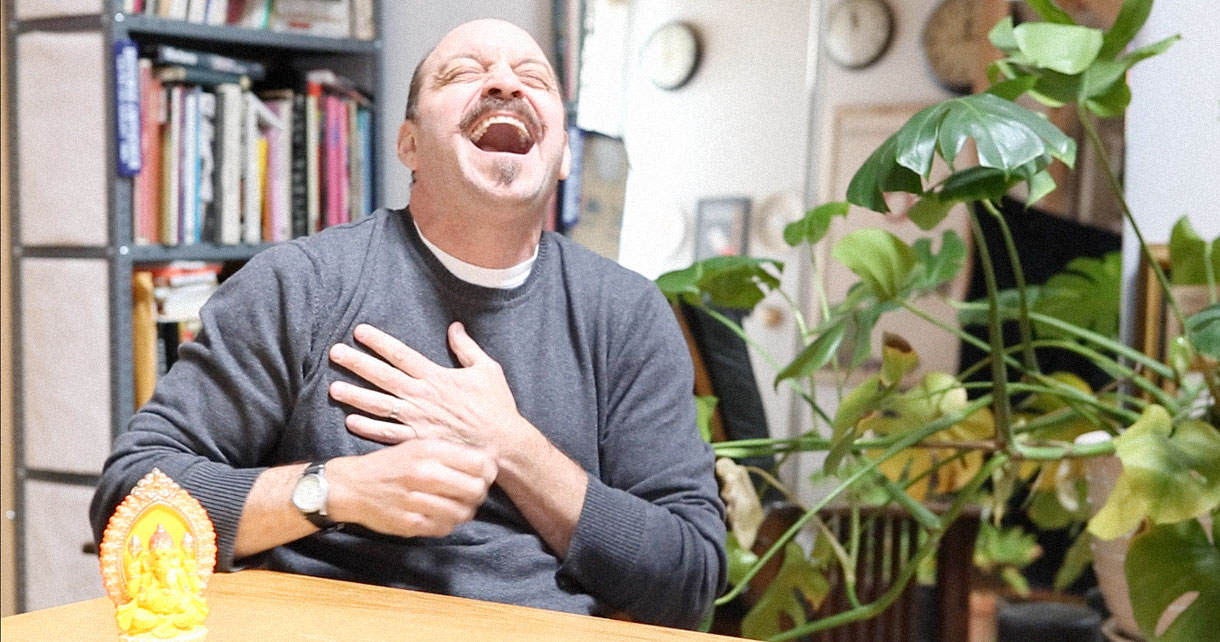
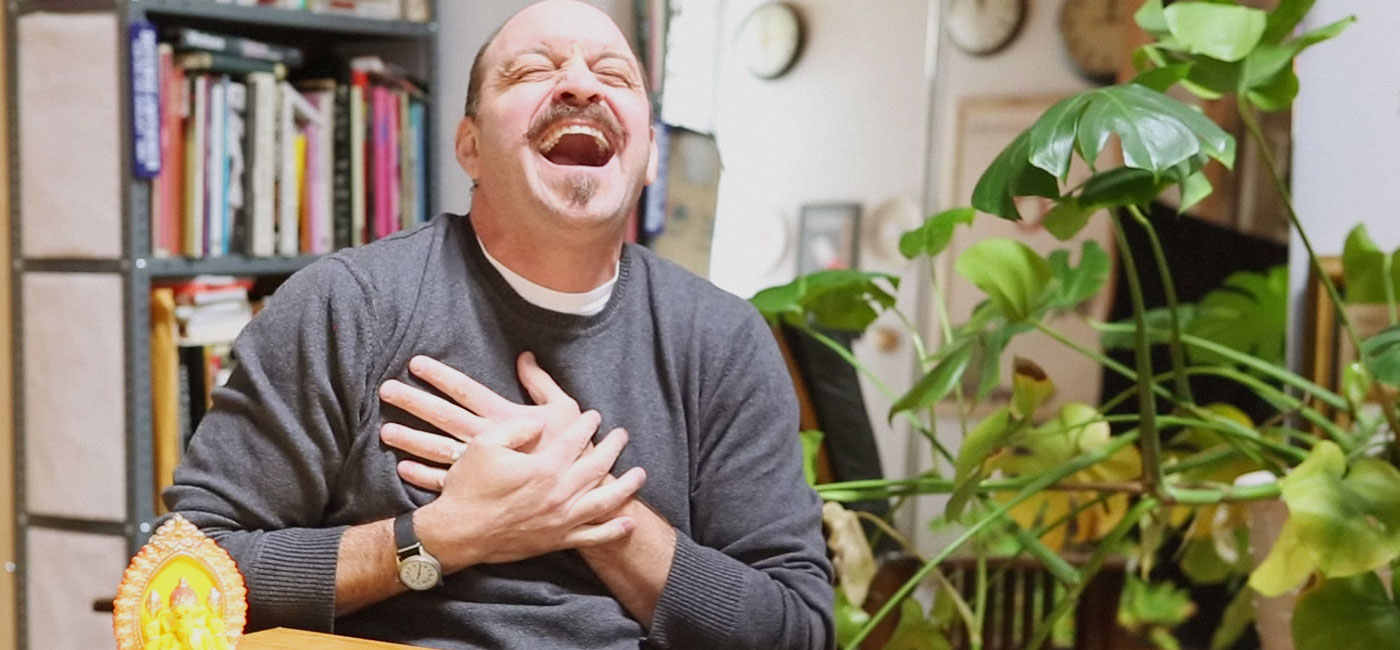
Big photos, quotes and lists

diff --git a/dist/questions.html b/dist/questions.html
@@ -13,7 +13,7 @@
 		<link sizes="120x120" href="assets/0.7.2/images/icons/apple-touch-icon-120x120.png" rel="apple-touch-icon">
 		<link sizes="144x144" href="assets/0.7.2/images/icons/apple-touch-icon-144x144.png" rel="apple-touch-icon">
 		<link sizes="152x152" href="assets/0.7.2/images/icons/apple-touch-icon-152x152.png" rel="apple-touch-icon">
-		<meta name="application-name" content="Victore">
+		<meta name="application-name" content="CSSSR Project Template">
 		<meta name="msapplication-tooltip" content="A template for a quick start.">
 		<meta name="msapplication-TileColor" content="#ffffff">
 		<meta name="msapplication-TileImage" content="assets/0.7.2/images/icons/tile.png">
@@ -48,8 +48,7 @@
 					</div>
 				</div>
 			</div>
-			<div class="image_block">
-				<img src="assets/0.7.2/images/watch.jpg" alt="burning questions" class="image_block__image">
+			<div class="image_block image_block--first image_block--bq">
 				<h1 class="h1 image_block__title image_block__title--size183"><span class="image_block__title__comment">burning questions</span>Watch <br>and learn</h1>
 			</div>
 			<div class="block">
@@ -69,25 +68,25 @@
 				</aside>
 				<div class="clear"></div>
 				<div class="block__paragraph block__paragraph--wide"><span class="image_block__title__comment image_block__title__comment--top10">Fan mail</span>
-					<div class="block__paragraph__quote--big">Today, after watching your Burning Questions video… I puffed out my chest, walked to my bosses office and quit my dull, fast food version of a design job. I will now focus on myself and my OWN work. THANK YOU!!!</div>
-					<div class="quote__author quote__author--big">– Garrett H., TX</div>
+					<div class="block__paragraph__quote--big">“Today, after watching your Burning Questions video… I puffed out my chest, walked to my bosses office and quit my dull, fast food version of a design job. I will now focus on myself and my OWN work. THANK YOU!!!”</div>
+					<div class="quote__author quote__author--big">Garrett H., TX</div>
 				</div>
 				<div class="block__paragraph">
-					<div class="block__paragraph__quote--small">Both your work and Burning Questions has helped me and inspire me to do better work and be a better person. Thank you for that.<span class="quote__author quote__author--small">&nbsp;— Christina C.</span>
+					<div class="block__paragraph__quote--small">“ Both your work and Burning Questions has helped me and inspire me to do better work and be a better person. Thank you for that.”<span class="quote__author quote__author--small">&nbsp;Christina C.</span>
 					</div>
-					<div class="block__paragraph__quote--small">Your words, your passion, are insightful and magical. I have a few ideas in how I will use them in my daily work to inspire others around me, myself, and most importantly, to make an impact on the lives of cancer patients, one patient at a time.
+					<div class="block__paragraph__quote--small">“ Your words, your passion, are insightful and magical. I have a few ideas in how I will use them in my daily work to inspire others around me, myself, and most importantly, to make an impact on the lives of cancer patients, one patient at a time.”
 						<span
-						class="quote__author quote__author--small">&nbsp;— Andy DeL.</span>
+						class="quote__author quote__author--small">&nbsp;Andy DeL.</span>
 					</div>
-					<div class="block__paragraph__quote--small">Who needs church when your weekly inspirations come right to my mailbox? Your efforts are making big beautiful differences in the lives of many. I know because I’m one of those people who really enjoy all the positive, empowering, and truthful messages
-						you send out. I love being a part of it and passing it on to the pockets of community I have here.<span class="quote__author quote__author--small">&nbsp;— Anne E.</span>
+					<div class="block__paragraph__quote--small">“ Who needs church when your weekly inspirations come right to my mailbox? Your efforts are making big beautiful differences in the lives of many. I know because I’m one of those people who really enjoy all the positive, empowering, and truthful
+						messages you send out. I love being a part of it and passing it on to the pockets of community I have here.”<span class="quote__author quote__author--small">&nbsp;Anne E.</span>
 					</div>
-					<div class="block__paragraph__quote--small">I just wanted to let you know that I have decided to take the proverbial bull by the bollocks and have handed my notice in at my soul destroying ‘design’ job. I just want to say thanks, because I think your attitude helped me to think, “<span class="censored">fuck</span> this,
-						I’m the only one that’s going to change it” and make something happen. If you’re in Brighton, UK at any point, let me buy you a drink!<span class="quote__author quote__author--small">&nbsp;— Jem P., UK</span>
+					<div class="block__paragraph__quote--small">“ I just wanted to let you know that I have decided to take the proverbial bull by the bollocks and have handed my notice in at my soul destroying ‘design’ job. I just want to say thanks, because I think your attitude helped me to think, “<span class="censored">fuck</span> this,
+						I’m the only one that’s going to change it” and make something happen. If you’re in Brighton, UK at any point, let me buy you a drink!”<span class="quote__author quote__author--small">&nbsp;Jem P., UK</span>
 					</div>
-					<div class="block__paragraph__quote--small">Thanks for all your videos and messages. It’s amazing to see someone with balls and determination track down their dream and help others to do the same. Keep fighting the good fight and I will too.<span class="quote__author quote__author--small">&nbsp;— Alex P., UK</span>
+					<div class="block__paragraph__quote--small">“ Thanks for all your videos and messages. It’s amazing to see someone with balls and determination track down their dream and help others to do the same. Keep fighting the good fight and I will too.”<span class="quote__author quote__author--small">&nbsp;Alex P., UK</span>
 					</div>
-					<div class="block__paragraph__quote--small">James, Thank you for all the gems that keep my spark alive!!<span class="quote__author quote__author--small">&nbsp;— Adam N.</span>
+					<div class="block__paragraph__quote--small">“ James, Thank you for all the gems that keep my spark alive!!”<span class="quote__author quote__author--small">&nbsp;Adam N.</span>
 					</div>
 				</div>
 				<aside class="block__events block__events--top18">
@@ -121,7 +120,7 @@
 		</div>
 		<script src="assets/0.7.2/scripts/libs/browsehappy.min.js"></script>
 		<script src="assets/0.7.2/scripts/libs/jquery-2.1.1.min.js"></script>
-		<script src="assets/0.7.2/scripts/jquery-live-preview.js"></script>
+		<script src="assets/0.7.2/scripts/jquery-live-preview.min.js"></script>
 		<script src="assets/0.7.2/scripts/main.js"></script>
 	</body>
 </html>

diff --git a/dist/hire.html b/dist/hire.html
@@ -48,9 +48,11 @@
 					</div>
 				</div>
 			</div>
-			<div class="image_block">
-				<iframe src="//player.vimeo.com/video/95415863" width="100%" height="787" frameborder="0" webkitallowfullscreen mozallowfullscreen allowfullscreen class="video"></iframe>
-				<h1 class="h1 image_block__title image_block__title--size160"><span class="image_block__title__comment">hire james to speak</span>Powerful.<br>Memorable.<br>Sexy.</h1>
+			<div class="wrapper--video">
+				<div class="image_block">
+					<iframe id="video" src="//player.vimeo.com/video/95415863" width="100%" height="787" frameborder="0" webkitallowfullscreen mozallowfullscreen allowfullscreen class="video"></iframe>
+					<h1 class="h1 image_block__title image_block__title--size160"><span class="image_block__title__comment">hire james to speak</span>Powerful.<br>Memorable.<br>Sexy.</h1>
+				</div>
 			</div>
 			<div class="block">
 				<div class="block__paragraph">
@@ -78,7 +80,7 @@
 				<div class="clear"></div>
 			</div>
 			<div class="image_block">
-				<iframe src="//player.vimeo.com/video/95415863" width="100%" height="787" frameborder="0" webkitallowfullscreen mozallowfullscreen allowfullscreen class="video"></iframe>
+				<iframe src="//player.vimeo.com/video/35770492" width="100%" height="787" frameborder="0" webkitallowfullscreen mozallowfullscreen allowfullscreen class="video"></iframe>
 			</div>
 			<div class="block">
 				<div class="block__paragraph">
@@ -101,20 +103,20 @@
 				<div class="block__paragraph block__paragraph--wide">
 					<div class="block__paragraph__title">Testimonials</div>
 					<div class="block__paragraph__quote--big">“James sees, shares, and understands peoples’ potential — and helps you build upon it; there’s nothing quite like it.”</div>
-					<div class="quote__author quote__author--big">– Scott Belsky, Behance and 99U</div>
+					<div class="quote__author quote__author--big">Scott Belsky, Behance and 99U</div>
 				</div>
 				<div class="block__paragraph">
-					<div class="block__paragraph__quote--small">“We brought in James as the closing keynoter at our annual Titan Summit. He was such a pleasure to work with. And he rocked the house!”<span class="quote__author quote__author--small">&nbsp;— Robin Sharma, RobinSharma.com</span>
+					<div class="block__paragraph__quote--small">“ We brought in James as the closing keynoter at our annual Titan Summit. He was such a pleasure to work with. And he rocked the house!”<span class="quote__author quote__author--small">&nbsp;Robin Sharma, RobinSharma.com</span>
 					</div>
-					<div class="block__paragraph__quote--small">“James Victore is a man of action. He believes that knowing about jazz and wine and auto-racing can make you a better designer. That graphic design is about experiences and stories and using your hands. That the best designs punch you in the gut
-						– or, at the very least, stop you in your tracks.”<span class="quote__author quote__author--small">&nbsp;— Jocelyn Glei, 99U </span>
+					<div class="block__paragraph__quote--small">“ James Victore is a man of action. He believes that knowing about jazz and wine and auto-racing can make you a better designer. That graphic design is about experiences and stories and using your hands. That the best designs punch you in the gut
+						– or, at the very least, stop you in your tracks.”<span class="quote__author quote__author--small">&nbsp;Jocelyn Glei, 99U </span>
 					</div>
-					<div class="block__paragraph__quote--small">“His provocative style extends from his own work to how he encourages others.” <span class="quote__author quote__author--small">&nbsp;— Karen Day, CoolHunting</span>
+					<div class="block__paragraph__quote--small">“ His provocative style extends from his own work to how he encourages others.” <span class="quote__author quote__author--small">&nbsp;Karen Day, CoolHunting</span>
 					</div>
-					<div class="block__paragraph__quote--small">“Guns blazing, James Victore speaks with audacity, candor, and unmatched intensity. His lectures abruptly inspire, offering not a passive call-to-action but a demand for change, promising to light a fire — not only in your heart, but also under your
-						ass.”<span class="quote__author quote__author--small">&nbsp;— Jenny Venn, Asst. Prof. of Art, Graphic Design, Univ. of Wyoming</span>
+					<div class="block__paragraph__quote--small">“ Guns blazing, James Victore speaks with audacity, candor, and unmatched intensity. His lectures abruptly inspire, offering not a passive call-to-action but a demand for change, promising to light a fire — not only in your heart, but also under
+						your ass.”<span class="quote__author quote__author--small">&nbsp;Jenny Venn, Asst. Prof. of Art, Graphic Design, Univ. of Wyoming</span>
 					</div>
-					<div class="block__paragraph__quote--small">“James Victore tells it like he sees it, bringing his highly acclaimed art to life with compelling comments, lively stories and insightful experiences. His wit and wisdom are amazing.”<span class="quote__author quote__author--small"> &nbsp;— Gemma Gatti, CEO Portfolio Center</span>
+					<div class="block__paragraph__quote--small">“ James Victore tells it like he sees it, bringing his highly acclaimed art to life with compelling comments, lively stories and insightful experiences. His wit and wisdom are amazing.”<span class="quote__author quote__author--small"> &nbsp;Gemma Gatti, CEO Portfolio Center</span>
 					</div><a href="javascript:void(0);" class="block__link block__link--quotes">hire james to speak</a>
 				</div>
 				<aside class="block__events block__events--past">
@@ -154,7 +156,7 @@
 		</div>
 		<script src="assets/0.7.2/scripts/libs/browsehappy.min.js"></script>
 		<script src="assets/0.7.2/scripts/libs/jquery-2.1.1.min.js"></script>
-		<script src="assets/0.7.2/scripts/jquery-live-preview.js"></script>
+		<script src="assets/0.7.2/scripts/jquery-live-preview.min.js"></script>
 		<script src="assets/0.7.2/scripts/main.js"></script>
 	</body>
 </html>

diff --git a/dist/class.html b/dist/class.html
@@ -48,17 +48,16 @@
 					</div>
 				</div>
 			</div>
-			<div class="image_block">
-				<img src="assets/0.7.2/images/class1.jpg" alt="Take a class online" class="image_block__image">
+			<div class="image_block image_block--first image_block--class">
 				<h1 class="h1 image_block__title image_block__title--size160"><span class="image_block__title__comment">take a class online</span>Branding With Radical Typography</h1>
 			</div>
 			<div class="block">
 				<div class="block__paragraph">
 					<div class="block__paragraph__title">about the class</div>
-					<p>“To be radical is to set yourself apart—to reject all the rules. Legendary designer James Victore shows us how to distill our most passionate ideas to a typography-based poster that represents our voices to the world. It’s an hour where we’ll disregard
-						the rules, pay homage to iconic misfits and artists, discover James’s favorite tools, and find freedom in graphic play. What do you have to say?”</p>
+					<p>To be radical is to set yourself apart—to reject all the rules. Legendary designer James Victore shows us how to distill our most passionate ideas to a typography-based poster that represents our voices to the world. It’s an hour where we’ll disregard
+						the rules, pay homage to iconic misfits and artists, discover James’s favorite tools, and find freedom in graphic play. What do you have to say?</p>
 					<div class="block__paragraph__quote--big block__paragraph__quote--top45">“Nobody cares what it looks like if what you say is dumb.”</div>
-					<div class="quote__author quote__author--big">– James Victore</div><a href="javascript:void(0);" class="block__link block__link--quotes block__link--class">sign up for the class here</a>
+					<div class="quote__author quote__author--big">James Victore</div><a href="javascript:void(0);" class="block__link block__link--quotes block__link--class">sign up for the class here</a>
 				</div>
 				<aside class="block__events">
 					<h4 class="h4">Class Schedule 2014</h4>
@@ -68,19 +67,19 @@
 				</aside>
 			</div>
 			<div class="image_block">
-				<iframe src="//player.vimeo.com/video/95415863" width="100%" height="787" frameborder="0" webkitallowfullscreen mozallowfullscreen allowfullscreen class="video"></iframe>
+				<iframe id="video_1" src="//player.vimeo.com/video/95415863" width="100%" height="787" frameborder="0" webkitallowfullscreen mozallowfullscreen allowfullscreen></iframe>
 			</div>
 			<div class="block">
 				<div class="block__paragraph">
 					<div class="block__paragraph__title block__paragraph__title--reviews">raving reviews</div>
-					<div class="block__paragraph__quote--small">Great class! James Victore is very inspiring, he pushes you to step outside your comfort zone — and for good reason. He urges you to forget about the rules, forget about what’s taught, forget about mass media. This class gives you something to think
-						about.<span class="quote__author quote__author--small">&nbsp;— Trish Durden	</span>
+					<div class="block__paragraph__quote--small">“ Great class! James Victore is very inspiring, he pushes you to step outside your comfort zone — and for good reason. He urges you to forget about the rules, forget about what’s taught, forget about mass media. This class gives you something to
+						think about.”<span class="quote__author quote__author--small">&nbsp;Trish Durden	</span>
 					</div>
-					<div class="block__paragraph__quote--small">Highly excellent! The course gives a practical look at how James makes some of his work, but in a way that encourages you to get weird and be yourself in your work, not emulate his. Realizing that constantly “playing” needs to be part of my process
-						is one of the biggest things that will stick with me.<span class="quote__author quote__author--small">&nbsp;— Ryan Dupre</span>
+					<div class="block__paragraph__quote--small">“ Highly excellent! The course gives a practical look at how James makes some of his work, but in a way that encourages you to get weird and be yourself in your work, not emulate his. Realizing that constantly “playing” needs to be part of my process
+						is one of the biggest things that will stick with me.”<span class="quote__author quote__author--small">&nbsp;Ryan Dupre</span>
 					</div>
-					<div class="block__paragraph__quote--small">James Victore gives great insight to his process.There are historical references, and excellent suggestions for tools and surfaces. Most importantly, the student is encouraged to let loose, and PLAY. As a designer I’m always working with grids and
-						checking kerning and leading and this class was a great way to get away from those restrictions and just make marks.<span class="quote__author quote__author--small">&nbsp;— Lara Mccormick</span>
+					<div class="block__paragraph__quote--small">“ James Victore gives great insight to his process.There are historical references, and excellent suggestions for tools and surfaces. Most importantly, the student is encouraged to let loose, and PLAY. As a designer I’m always working with grids
+						and checking kerning and leading and this class was a great way to get away from those restrictions and just make marks.”<span class="quote__author quote__author--small">&nbsp;Lara Mccormick</span>
 					</div>
 				</div>
 				<div class="clear"></div>
@@ -98,7 +97,7 @@
 		</div>
 		<script src="assets/0.7.2/scripts/libs/browsehappy.min.js"></script>
 		<script src="assets/0.7.2/scripts/libs/jquery-2.1.1.min.js"></script>
-		<script src="assets/0.7.2/scripts/jquery-live-preview.js"></script>
+		<script src="assets/0.7.2/scripts/jquery-live-preview.min.js"></script>
 		<script src="assets/0.7.2/scripts/main.js"></script>
 	</body>
 </html>

diff --git a/dist/about.html b/dist/about.html
@@ -48,8 +48,7 @@
 					</div>
 				</div>
 			</div>
-			<div class="image_block">
-				<img src="assets/0.7.2/images/about.jpg" alt="About the studio" class="image_block__image">
+			<div class="image_block image_block--first image_block--about">
 				<h1 class="h1 image_block__title image_block__title--size154"><span class="image_block__title__comment">about the studio</span>Think Banksy meets Tony Robbins</h1>
 			</div>
 			<div class="block">
@@ -154,15 +153,15 @@
 				<div class="block__paragraph wrapper--padding27">
 					<div class="block__paragraph__title">love + praise</div>
 					<div class="block__paragraph__quote--big">“Once you see a Victore image you rarely forget it.”</div>
-					<div class="quote__author quote__author--big">– Jocelyn Glei, 99U</div>
-					<div class="block__paragraph__quote--small">“Most with the motto ‘badass’ end up rock stars, porn stars or thrill-seeking rebels. The particular charm of graphic designer James Victore is that he’s all of these things; with his repertoire of heartfelt slogans and self-taught illustrations,
-						he has succeeded in changing the way the world views commercial art and even better – the way people view the world.”<span class="quote__author quote__author--small">&nbsp;— CoolHunting.com</span>
+					<div class="quote__author quote__author--big">Jocelyn Glei, 99U</div>
+					<div class="block__paragraph__quote--small">“ Most with the motto ‘badass’ end up rock stars, porn stars or thrill-seeking rebels. The particular charm of graphic designer James Victore is that he’s all of these things; with his repertoire of heartfelt slogans and self-taught illustrations,
+						he has succeeded in changing the way the world views commercial art and even better – the way people view the world.”<span class="quote__author quote__author--small">&nbsp;CoolHunting.com</span>
 					</div>
-					<div class="block__paragraph__quote--small">“… the man has a brash eloquence that few designers ever master.”<span class="quote__author quote__author--small">&nbsp;— FastCompany.com</span>
+					<div class="block__paragraph__quote--small">“ … the man has a brash eloquence that few designers ever master.”<span class="quote__author quote__author--small">&nbsp;FastCompany.com</span>
 					</div>
-					<div class="block__paragraph__quote--small">“James Victore is an artist and graphic designer whose work is instantly familiar, but completely it’s own thing. His designs are vivid, memorable and (often) controversial.”<span class="quote__author quote__author--small">&nbsp;— Saatchi & Saatchi, NY</span>
+					<div class="block__paragraph__quote--small">“ James Victore is an artist and graphic designer whose work is instantly familiar, but completely it’s own thing. His designs are vivid, memorable and (often) controversial.”<span class="quote__author quote__author--small">&nbsp;Saatchi & Saatchi, NY</span>
 					</div>
-					<div class="block__paragraph__quote--small">“Technique is important but, as Victore’s designs demonstrate, it is the ideas that count.”<span class="quote__author quote__author--small">&nbsp;— Creative Review</span>
+					<div class="block__paragraph__quote--small">“ Technique is important but, as Victore’s designs demonstrate, it is the ideas that count.”<span class="quote__author quote__author--small">&nbsp;Creative Review</span>
 					</div>
 				</div>
 				<div class="clear"></div>
@@ -180,7 +179,7 @@
 		</div>
 		<script src="assets/0.7.2/scripts/libs/browsehappy.min.js"></script>
 		<script src="assets/0.7.2/scripts/libs/jquery-2.1.1.min.js"></script>
-		<script src="assets/0.7.2/scripts/jquery-live-preview.js"></script>
+		<script src="assets/0.7.2/scripts/jquery-live-preview.min.js"></script>
 		<script src="assets/0.7.2/scripts/main.js"></script>
 	</body>
 </html>

diff --git a/dist/assets/0.7.2/styles/main.css b/dist/assets/0.7.2/styles/main.css
@@ -350,6 +350,34 @@ a {
 .image_block--more {
 	margin-top: 16px;
 }
+.image_block--first {
+	max-width: 100%;
+	height: 650px;
+}
+.image_block--class {
+	background: url('../images/class1.jpg') center top repeat-x;
+}
+.image_block--bq {
+	background: url('../images/watch.jpg') center top repeat-x;
+}
+.image_block--about {
+	background: url('../images/about.jpg') center top repeat-x;
+}
+.image_block--contact {
+	background: url('../images/contact.jpg') center top repeat-x;
+}
+.image_block--contact__gradient {
+	position: absolute;
+	width: 100%;
+	height: 650px;
+	background-color: #8b69d3;
+	background-image: -webkit-linear-gradient(to right, #8b69d3 0%, #f128c1 30%, #ff85bb 100%);
+	background-image:      -o-linear-gradient(to right, #8b69d3 0%, #f128c1 30%, #ff85bb 100%);
+	background-image: -webkit-linear-gradient(left, #8b69d3 0%, #f128c1 30%, #ff85bb 100%);
+	background-image:      -o-linear-gradient(left, #8b69d3 0%, #f128c1 30%, #ff85bb 100%);
+	background-image:         linear-gradient(to right, #8b69d3 0%, #f128c1 30%, #ff85bb 100%);
+	opacity: .5;
+}
 .image_block__image {
 	position: relative;
 	margin-right: -50%;
@@ -459,6 +487,9 @@ a {
 .wrapper--padding36 {
 	padding-top: 36px;
 }
+.wrapper--video {
+	background: #000;
+}
 .block__link {
 	margin-bottom: 0;
 	padding-top: 6px;
@@ -519,6 +550,7 @@ a {
 	font-family: HelveticaNeueLTBold, sans-serif;
 	font-size: 54px;
 	line-height: 60px;
+	text-indent: -20px;
 }
 .block__paragraph__quote--bottom15 {
 	margin-bottom: 15px;
@@ -536,6 +568,7 @@ a {
 	font-size: 26px;
 	font-style: italic;
 	line-height: 36px;
+	text-indent: -15px;
 }
 .block__paragraph--subscribe {
 	margin-top: 120px;
@@ -583,13 +616,13 @@ a {
 }
 .block__list__item:before {
 	position: absolute;
-	left: 0;
+	left: -20px;
 	content: '\2014';
 }
 .block__list__item {
 	position: relative;
 	padding-bottom: 17px;
-	padding-left: 35px;
+	padding-left: 14px;
 	list-style-type: none;
 	line-height: 35px;
 }

diff --git a/dist/contacts.html b/dist/contacts.html
@@ -48,8 +48,8 @@
 					</div>
 				</div>
 			</div>
-			<div class="image_block">
-				<img src="assets/0.7.2/images/contact.jpg" alt="Contact" class="image_block__image">
+			<div class="image_block image_block--first image_block--contact">
+				<div class="image_block--contact__gradient"></div>
 				<h1 class="h1 image_block__title image_block__title--size310"><span class="image_block__title__comment">contact</span>Howdy</h1>
 			</div>
 			<div class="gradient_block gradient_block--violet">
@@ -100,8 +100,7 @@
 							<div class="block__paragraph block__paragraph--narrow">
 								<div class="block__paragraph__title">STUDIO VISITS</div>
 								<p class="text">In order to safeguard our sanity, we no longer permit studio visits, however we do have one night every month dedicated to visiting, sharing, and reveling in each others’ company. It’s open to everyone and it’s called “Victore After Hours”. Check
-									<a
-									href="javascript:void(0);" class="link--white link--underlined">twitter</a>&nbsp;and <a href="javascript:void(0);" class="link--white link--underlined">instagram</a>&nbsp;for the next engagement.</p>
+									<a href="javascript:void(0);" class="link--white link--underlined">twitter</a>&nbsp;and <a href="javascript:void(0);" class="link--white link--underlined">instagram</a>&nbsp;for the next engagement.</p>
 							</div>
 						</div>
 					</div>
@@ -121,7 +120,7 @@
 		</div>
 		<script src="assets/0.7.2/scripts/libs/browsehappy.min.js"></script>
 		<script src="assets/0.7.2/scripts/libs/jquery-2.1.1.min.js"></script>
-		<script src="assets/0.7.2/scripts/jquery-live-preview.js"></script>
+		<script src="assets/0.7.2/scripts/jquery-live-preview.min.js"></script>
 		<script src="assets/0.7.2/scripts/main.js"></script>
 	</body>
 </html>

diff --git a/dist/index.html b/dist/index.html
@@ -71,7 +71,7 @@
 		</div>
 		<script src="assets/0.7.2/scripts/libs/browsehappy.min.js"></script>
 		<script src="assets/0.7.2/scripts/libs/jquery-2.1.1.min.js"></script>
-		<script src="assets/0.7.2/scripts/jquery-live-preview.js"></script>
+		<script src="assets/0.7.2/scripts/jquery-live-preview.min.js"></script>
 		<script src="assets/0.7.2/scripts/main.js"></script>
 		<script src="assets/0.7.2/scripts/main.js"></script>
 	</body>

diff --git a/dist/home.html b/dist/home.html
@@ -94,7 +94,7 @@
 		</div>
 		<script src="assets/0.7.2/scripts/libs/browsehappy.min.js"></script>
 		<script src="assets/0.7.2/scripts/libs/jquery-2.1.1.min.js"></script>
-		<script src="assets/0.7.2/scripts/jquery-live-preview.js"></script>
+		<script src="assets/0.7.2/scripts/jquery-live-preview.min.js"></script>
 		<script src="assets/0.7.2/scripts/main.js"></script>
 	</body>
 </html>

diff --git a/dist/subscribe.html b/dist/subscribe.html
@@ -74,7 +74,7 @@
 		</div>
 		<script src="assets/0.7.2/scripts/libs/browsehappy.min.js"></script>
 		<script src="assets/0.7.2/scripts/libs/jquery-2.1.1.min.js"></script>
-		<script src="assets/0.7.2/scripts/jquery-live-preview.js"></script>
+		<script src="assets/0.7.2/scripts/jquery-live-preview.min.js"></script>
 		<script src="assets/0.7.2/scripts/main.js"></script>
 	</body>
 </html>
